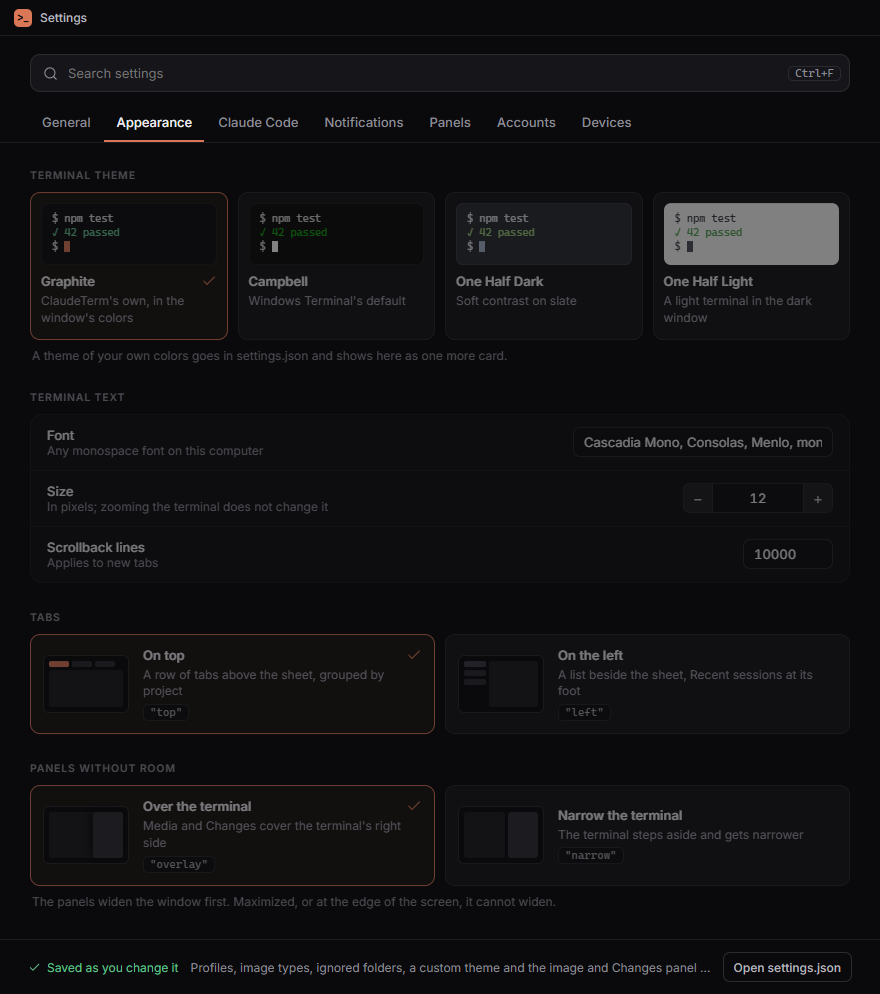
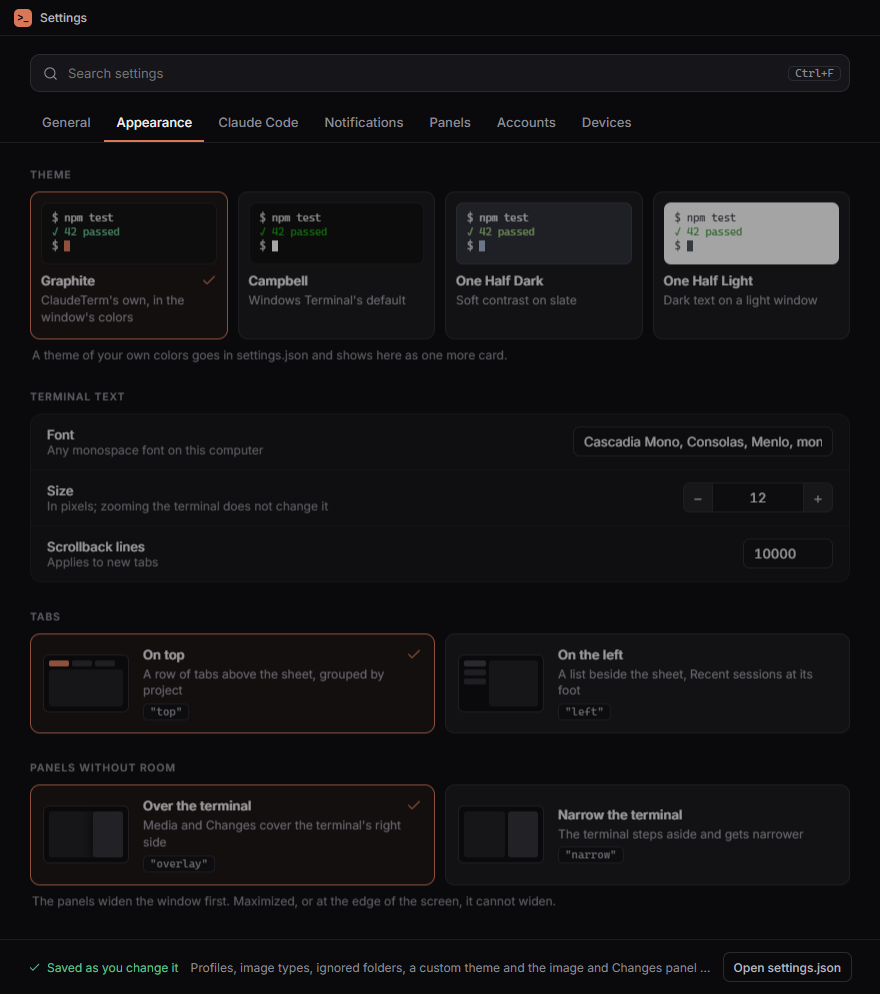
chore: release 0.21.0
The README's settings image shows the Appearance section's new Theme title and the light theme's new note.

diff --git a/CHANGELOG.md b/CHANGELOG.md
@@ -2,6 +2,21 @@
 
 What changed in each ClaudeTerm release. The GitHub release of a version shows its section from this file.
 
+## 0.21.0
+
+### New
+
+- **File paths in Claude's answers are links.** A path Claude writes to a file of the tab's folder — `docs/plan.md`, `src/app.ts:120`, an absolute path, or the target of a Markdown link — becomes a link once ClaudeTerm has checked the file is there: a document opens in **Docs** beside the chat, any other file in the editor you set in **Settings**, at its line when the path has one. A path that is not a file stays text, and a file Claude writes during its answer becomes a link when the answer ends.
+- **The theme colours the whole app.** **Settings → Appearance → Theme** now sets the colours of everything — the title bar and its buttons, the tabs, menus and dialogs, the side panels, the status bar, the Settings window and the MCP panel — not only the chat, and a theme change applies at once. A light theme gives a light window from its first frame; Graphite looks as before.
+- **Ask Claude from a Heads up card.** Every Heads up card has a field and an **Ask Claude** button of its own: what you type there goes to the conversation with the card quoted above it, so you can ask about what the card points out without copying it.
+- **MCP app secrets.** An MCP server that signs in through an OAuth app of your own needs that app's client secret. **Carry over** to an extra account now brings these secrets with the MCP servers (on Windows and Linux; on macOS Claude Code keeps them in the Keychain), and the **MCP** panel has a **Client secret** field for such a server, which also opens by itself when a sign-in fails for want of one. The secret goes to Claude Code only, never into a command line, a log or a message.
+
+### Fixes
+
+- A chat on an extra account keeps the whole history of a long conversation after a restart.
+- A resumed chat shows a compaction as its divider, instead of Claude Code's summary as a message from you.
+- Heads up cards are in your language even when your messages are few and short.
+
 ## 0.20.0
 
 ### New
